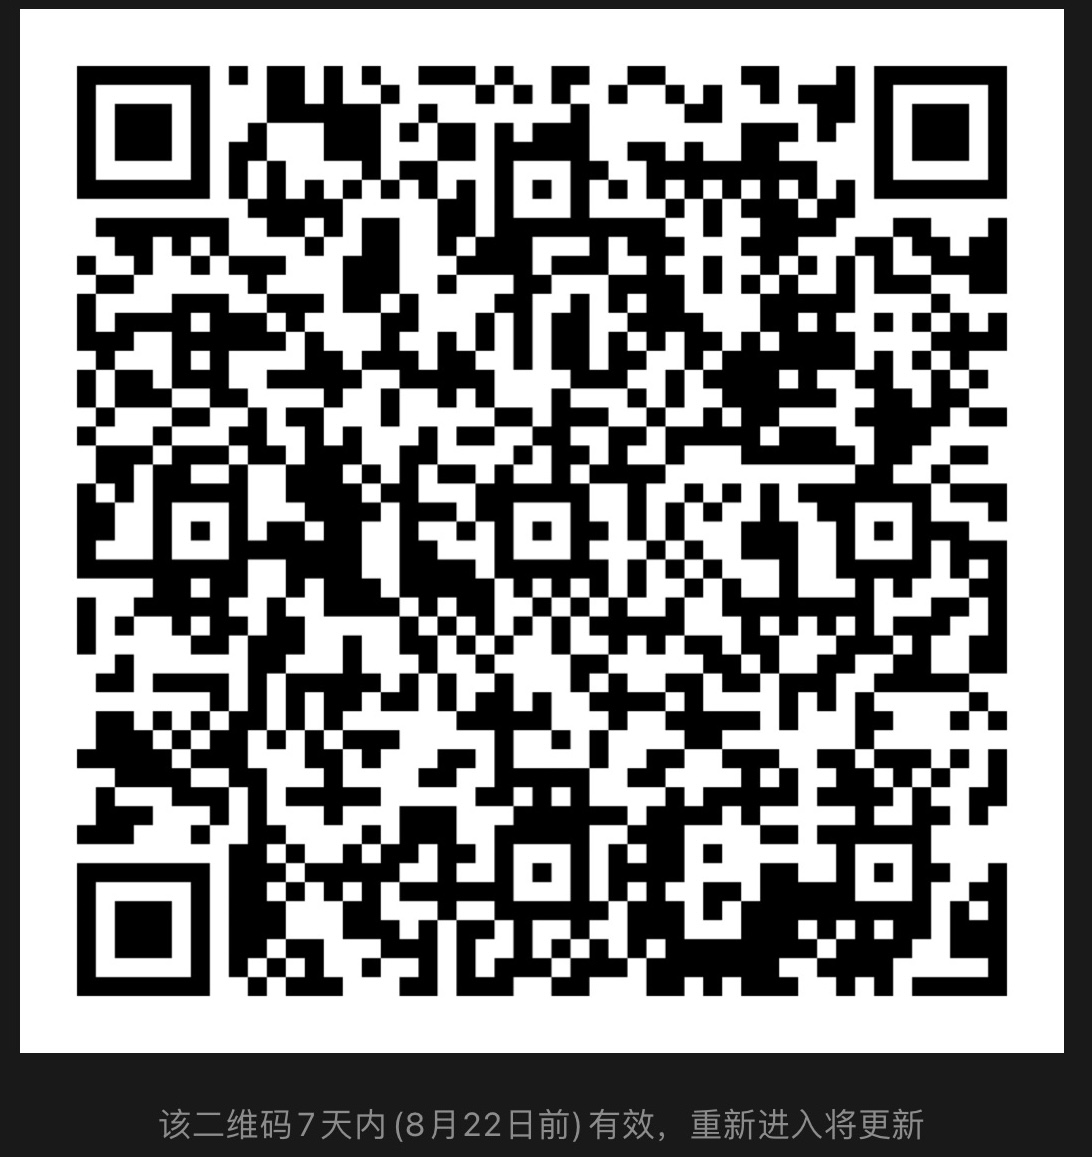
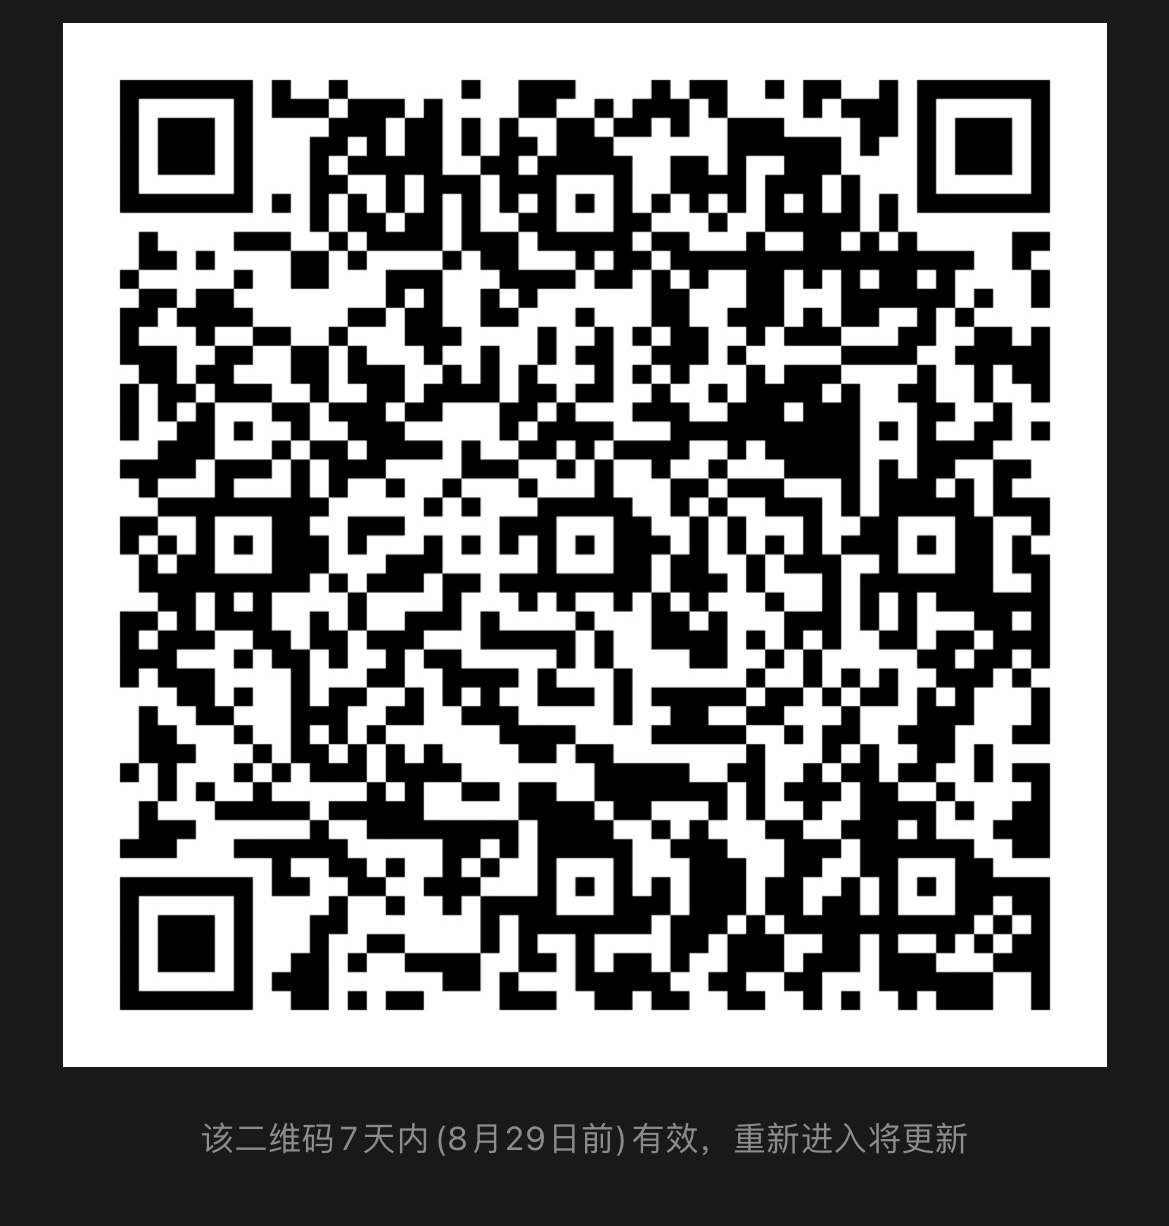
docs(qrcode): update qrcode

diff --git a/packages/hooks/README.md b/packages/hooks/README.md
@@ -89,7 +89,7 @@ $ yarn app:dev:h5
 
 ## 交流讨论
 
-<img src="https://cdn.jsdelivr.net/gh/innocces/DrawingBed/2021-8-16/1629044960609-qrcode.jpg" alt="wechat code" width="300"/>
+<img src="https://cdn.jsdelivr.net/gh/innocces/DrawingBed/2021-8-22/1629645933862-qrcode.jpg" alt="wechat code" width="300"/>
 
 ## License
 
